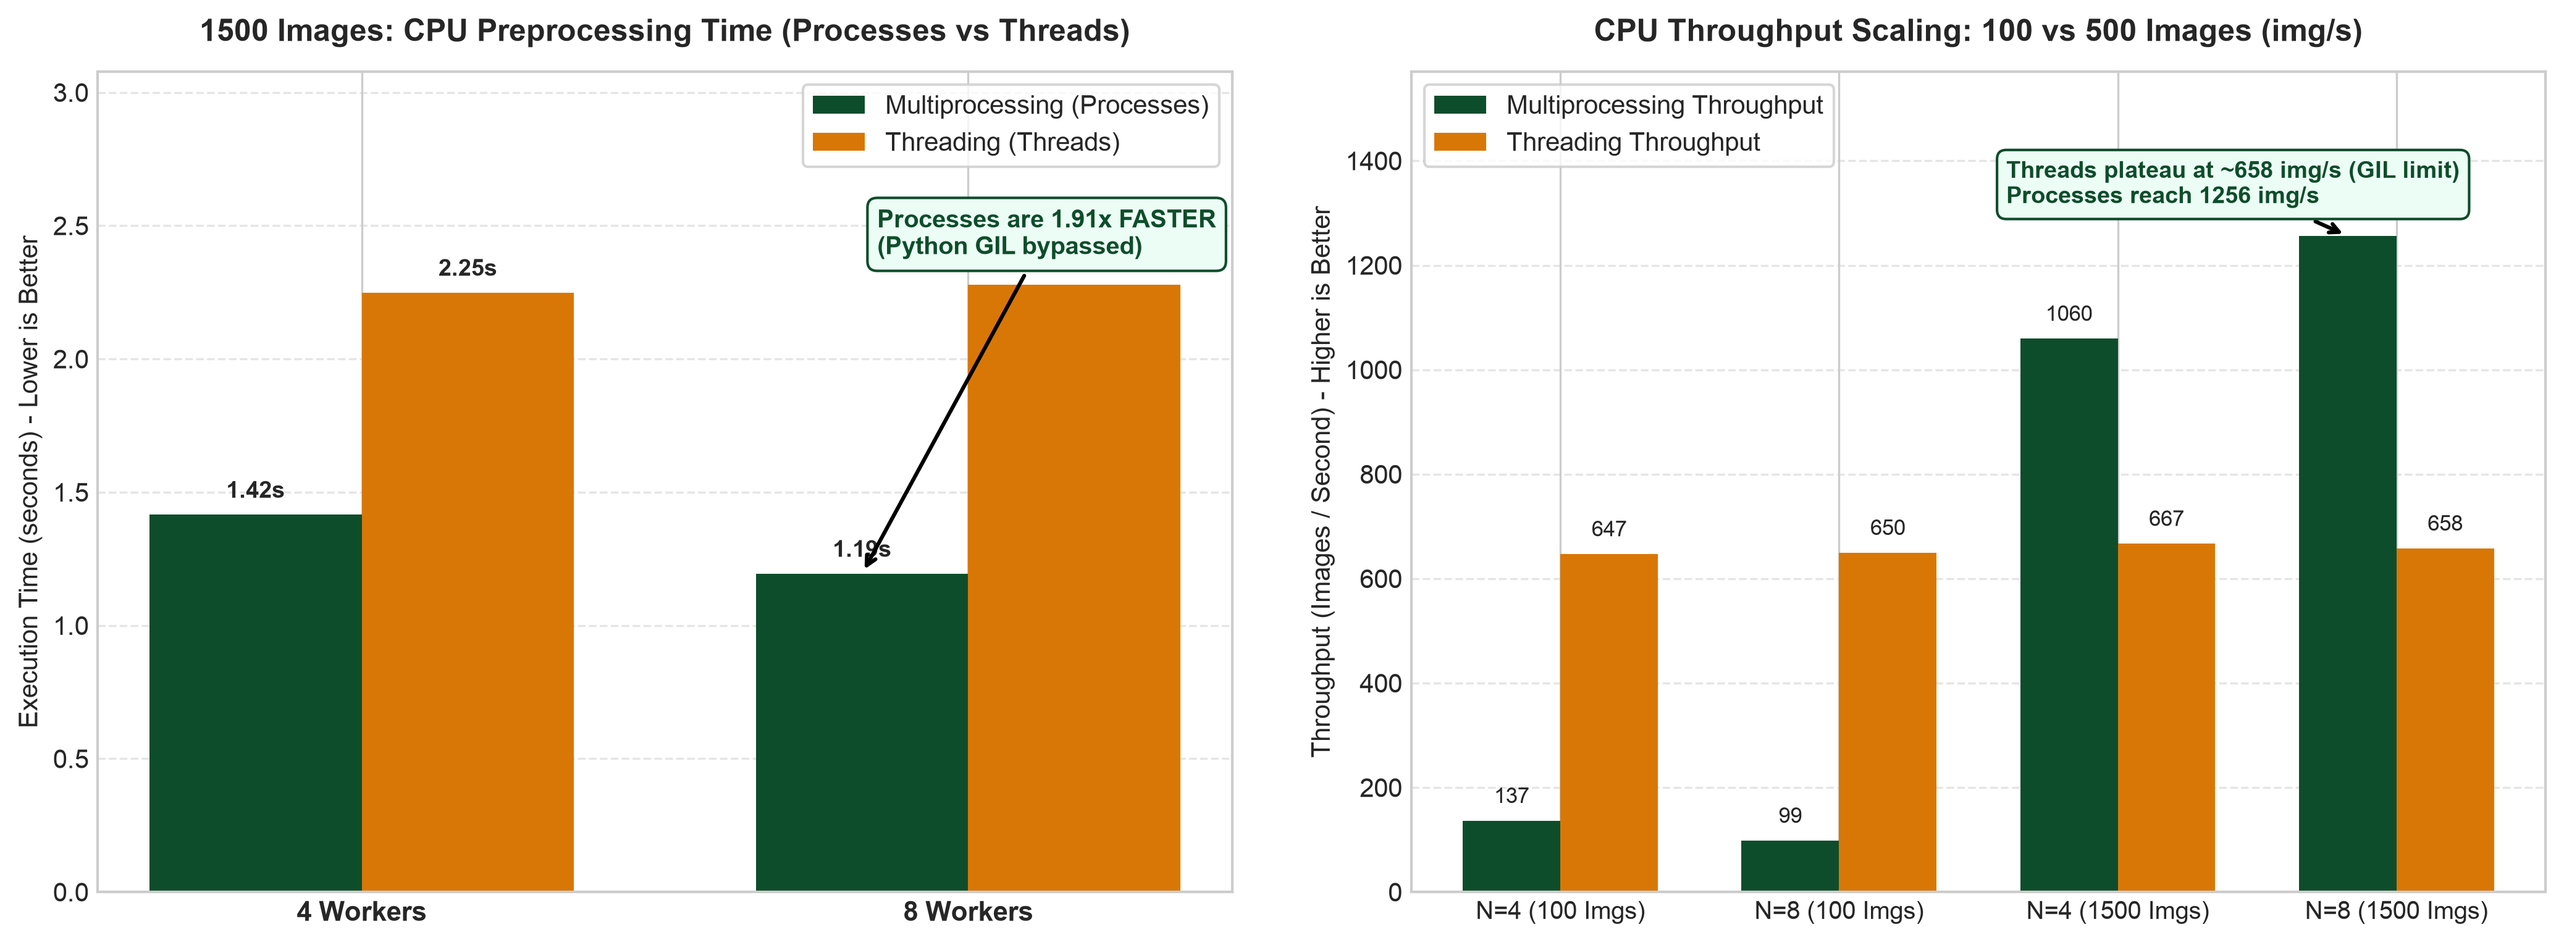
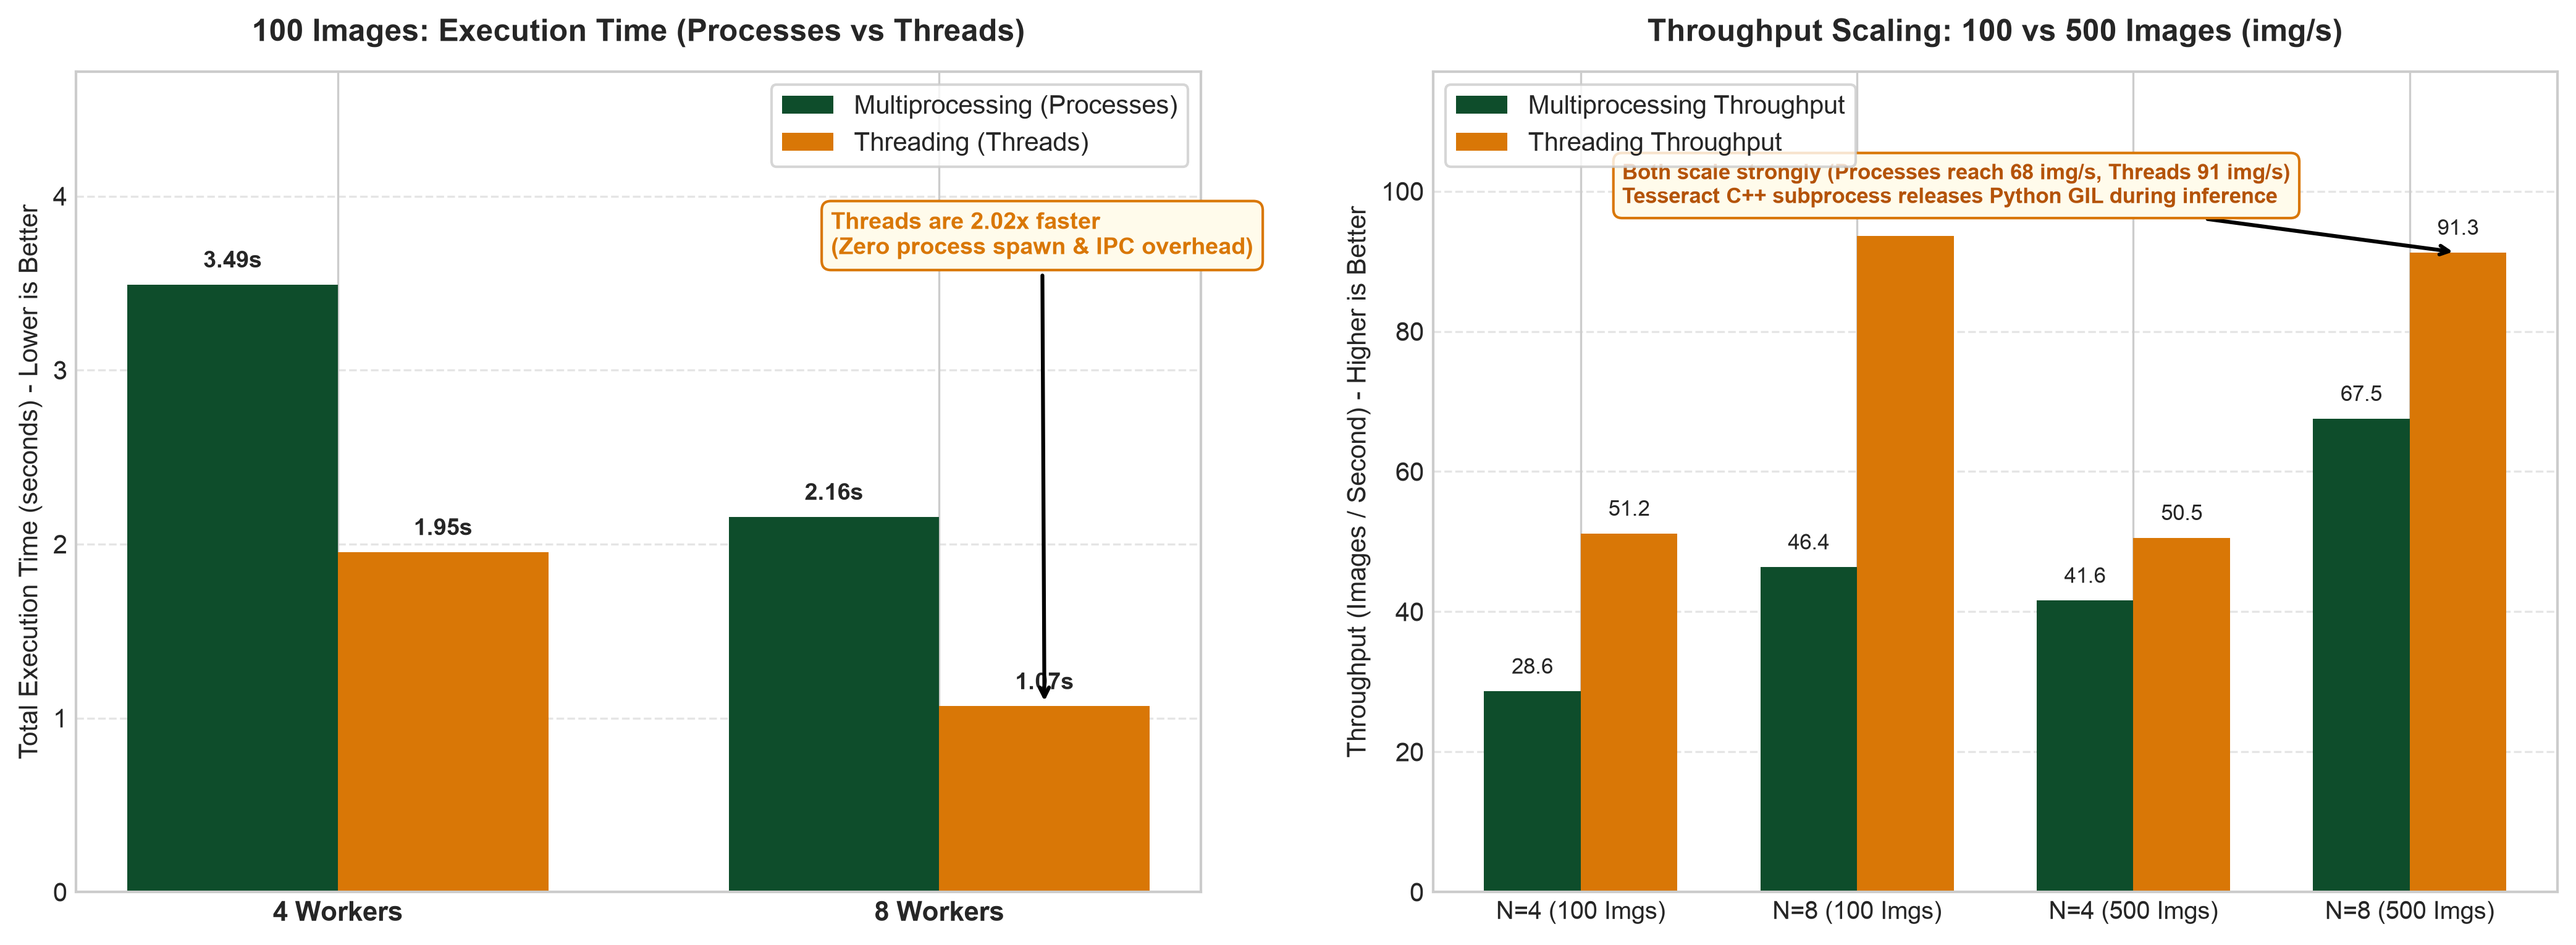
Configure scaling benchmark with 100-image execution time and 100 vs 500 throughput comparison

diff --git a/benchmark.py b/benchmark.py
@@ -16,7 +16,7 @@ import pytesseract
 # Avoid matplotlib cache permissions warnings in subshells
 os.environ["MPLCONFIGDIR"] = tempfile.gettempdir()
 
-from pipeline.manager import run_pipeline, run_cpu_benchmark
+from pipeline.manager import run_pipeline
 from pipeline.preprocessing import otsu_threshold, preprocess_image
 
 RESULTS_DIR = "benchmark_results"
@@ -131,38 +131,54 @@ def run_speedup_benchmark(
     print(f"Generated speedup chart: '{plot_file}'.")
 
 
-# 2. Scaling Benchmark: In-Python CPU Preprocessing Pipeline (Processes vs Threads)
+# 2. Concurrency Comparison: Multiprocessing vs Threading (100 vs 500 Images)
 def run_scaling_benchmark(
     csv_file=os.path.join(RESULTS_DIR, "scaling_comparison.csv"),
     plot_file=os.path.join(RESULTS_DIR, "scaling_comparison.png")
 ):
     ensure_results_dir()
     print("\n" + "=" * 65)
-    print("BENCHMARK 2: IN-PYTHON CPU PREPROCESSING & GIL SCALING")
+    print("BENCHMARK 2: SCALING & CONCURRENCY COMPARISON (100 VS 500 IMAGES)")
     print("=" * 65)
 
-    files_100 = [
-        os.path.join("dataset", f) for f in sorted(os.listdir("dataset"))
-        if f.endswith(".png")
-    ]
-    files_scaled = files_100 * 15
-    scaled_count = len(files_scaled)
+    # Create temporary 500-image dataset by replicating the 100 images 5 times
+    temp_dir_500 = "temp_dataset_500"
+    os.makedirs(temp_dir_500, exist_ok=True)
+    orig_files = sorted([f for f in os.listdir("dataset") if f.endswith(".png")])
+
+    print("Preparing temporary 500-image scaling dataset...")
+    count = 1
+    for _ in range(5):
+        for f in orig_files:
+            src = os.path.join("dataset", f)
+            dst = os.path.join(temp_dir_500, f"img{count:04d}.png")
+            shutil.copyfile(src, dst)
+            count += 1
 
     configs = [
-        {"images": 100, "paths": files_100, "workers": 4, "backend": "process"},
-        {"images": 100, "paths": files_100, "workers": 4, "backend": "thread"},
-        {"images": 100, "paths": files_100, "workers": 8, "backend": "process"},
-        {"images": 100, "paths": files_100, "workers": 8, "backend": "thread"},
-        {"images": scaled_count, "paths": files_scaled, "workers": 4, "backend": "process"},
-        {"images": scaled_count, "paths": files_scaled, "workers": 4, "backend": "thread"},
-        {"images": scaled_count, "paths": files_scaled, "workers": 8, "backend": "process"},
-        {"images": scaled_count, "paths": files_scaled, "workers": 8, "backend": "thread"},
+        {"dataset": "dataset", "images": 100, "workers": 4, "backend": "process"},
+        {"dataset": "dataset", "images": 100, "workers": 4, "backend": "thread"},
+        {"dataset": "dataset", "images": 100, "workers": 8, "backend": "process"},
+        {"dataset": "dataset", "images": 100, "workers": 8, "backend": "thread"},
+        {"dataset": temp_dir_500, "images": 500, "workers": 4, "backend": "process"},
+        {"dataset": temp_dir_500, "images": 500, "workers": 4, "backend": "thread"},
+        {"dataset": temp_dir_500, "images": 500, "workers": 8, "backend": "process"},
+        {"dataset": temp_dir_500, "images": 500, "workers": 8, "backend": "thread"},
     ]
 
     records = []
     for cfg in configs:
-        print(f"Running CPU Benchmark | {cfg['images']} imgs | n={cfg['workers']} | {cfg['backend'].upper()}...")
-        res = run_cpu_benchmark(cfg["paths"], cfg["workers"], cfg["backend"])
+        out_csv = "ocr_scaling_temp.csv"
+        print(f"Running {cfg['images']} imgs | n={cfg['workers']} | {cfg['backend'].upper()}...")
+        res = run_pipeline({
+            "image_dir": cfg["dataset"],
+            "n_workers": cfg["workers"],
+            "output_file": out_csv,
+            "backend": cfg["backend"]
+        })
+        if os.path.exists(out_csv):
+            os.remove(out_csv)
+
         records.append({
             "images": cfg["images"],
             "workers": cfg["workers"],
@@ -171,11 +187,15 @@ def run_scaling_benchmark(
             "throughput_ips": res["throughput_ips"]
         })
 
+    # Clean up temporary 500-image folder
+    if os.path.exists(temp_dir_500):
+        shutil.rmtree(temp_dir_500)
+
     df = pd.DataFrame(records)
     df.to_csv(csv_file, index=False)
     print(f"\nSaved live scaling benchmark data to '{csv_file}'.")
 
-    # Plot 2-panel chart
+    # Plot 2-panel chart (Left: 100 Images Execution Time, Right: 100 vs 500 Throughput)
     plt.style.use("seaborn-v0_8-whitegrid" if "seaborn-v0_8-whitegrid" in plt.style.available else "default")
     fig, (ax1, ax2) = plt.subplots(1, 2, figsize=(14, 5.2), dpi=300)
     fig.patch.set_facecolor("#FFFFFF")
@@ -183,20 +203,20 @@ def run_scaling_benchmark(
     c_proc = "#0E4D2B"
     c_thread = "#D97706"
 
-    # Left plot: Scaled Images Execution Time
-    df_scaled = df[df["images"] == scaled_count]
-    p_time_4 = df_scaled[(df_scaled["workers"] == 4) & (df_scaled["backend"] == "process")]["exec_time_sec"].values[0]
-    t_time_4 = df_scaled[(df_scaled["workers"] == 4) & (df_scaled["backend"] == "thread")]["exec_time_sec"].values[0]
-    p_time_8 = df_scaled[(df_scaled["workers"] == 8) & (df_scaled["backend"] == "process")]["exec_time_sec"].values[0]
-    t_time_8 = df_scaled[(df_scaled["workers"] == 8) & (df_scaled["backend"] == "thread")]["exec_time_sec"].values[0]
+    # Left plot: 100 Images Execution Time
+    df_100 = df[df["images"] == 100]
+    p_time_4 = df_100[(df_100["workers"] == 4) & (df_100["backend"] == "process")]["exec_time_sec"].values[0]
+    t_time_4 = df_100[(df_100["workers"] == 4) & (df_100["backend"] == "thread")]["exec_time_sec"].values[0]
+    p_time_8 = df_100[(df_100["workers"] == 8) & (df_100["backend"] == "process")]["exec_time_sec"].values[0]
+    t_time_8 = df_100[(df_100["workers"] == 8) & (df_100["backend"] == "thread")]["exec_time_sec"].values[0]
 
     bar_w = 0.35
     idx = np.arange(2)
     b1 = ax1.bar(idx - bar_w/2, [p_time_4, p_time_8], bar_w, label="Multiprocessing (Processes)", color=c_proc)
     b2 = ax1.bar(idx + bar_w/2, [t_time_4, t_time_8], bar_w, label="Threading (Threads)", color=c_thread)
 
-    ax1.set_title(f"{scaled_count} Images: CPU Preprocessing Time (Processes vs Threads)", fontsize=12, fontweight="bold", pad=12)
-    ax1.set_ylabel("Execution Time (seconds) - Lower is Better", fontsize=10)
+    ax1.set_title("100 Images: Execution Time (Processes vs Threads)", fontsize=12, fontweight="bold", pad=12)
+    ax1.set_ylabel("Total Execution Time (seconds) - Lower is Better", fontsize=10)
     ax1.set_xticks(idx)
     ax1.set_xticklabels(["4 Workers", "8 Workers"], fontsize=10.5, fontweight="bold")
     ax1.grid(axis="y", linestyle="--", alpha=0.5)
@@ -209,35 +229,40 @@ def run_scaling_benchmark(
         h = bar.get_height()
         ax1.text(bar.get_x() + bar.get_width()/2, h + (max_h * 0.02), f"{h:.2f}s", ha="center", va="bottom", fontsize=9, fontweight="bold")
 
-    speedup_ratio = t_time_8 / p_time_8 if p_time_8 > 0 else 1.0
+    faster_ratio_8 = p_time_8 / t_time_8 if t_time_8 < p_time_8 else t_time_8 / p_time_8
+    winner_str = "Threads" if t_time_8 <= p_time_8 else "Processes"
+    win_color = c_thread if winner_str == "Threads" else c_proc
+    win_bg = "#FFFBEB" if winner_str == "Threads" else "#ECFDF5"
+
     ax1.annotate(
-        f"Processes are {speedup_ratio:.2f}x FASTER\n(Python GIL bypassed)",
-        xy=(1 - bar_w/2, p_time_8), xytext=(0.85, max_h * 1.05),
-        arrowprops=dict(facecolor=c_proc, arrowstyle="->", lw=1.5),
-        fontsize=9.5, fontweight="bold", color=c_proc,
-        bbox=dict(boxstyle="round,pad=0.4", facecolor="#ECFDF5", edgecolor=c_proc, lw=1)
+        f"{winner_str} are {faster_ratio_8:.2f}x faster\n(Zero process spawn & IPC overhead)",
+        xy=(1 + (bar_w/2 if winner_str == "Threads" else -bar_w/2), min(p_time_8, t_time_8)),
+        xytext=(0.82, max_h * 1.05),
+        arrowprops=dict(facecolor=win_color, arrowstyle="->", lw=1.5),
+        fontsize=9, fontweight="bold", color=win_color,
+        bbox=dict(boxstyle="round,pad=0.4", facecolor=win_bg, edgecolor=win_color, lw=1)
     )
 
-    # Right plot: Throughput Scaling: 100 vs Scaled Images
-    labels = [f"N=4 (100 Imgs)", f"N=8 (100 Imgs)", f"N=4 ({scaled_count} Imgs)", f"N=8 ({scaled_count} Imgs)"]
+    # Right plot: Throughput Scaling: 100 vs 500 Images
+    labels = ["N=4 (100 Imgs)", "N=8 (100 Imgs)", "N=4 (500 Imgs)", "N=8 (500 Imgs)"]
     x = np.arange(len(labels))
     tp_proc = [
         df[(df["images"] == 100) & (df["workers"] == 4) & (df["backend"] == "process")]["throughput_ips"].values[0],
         df[(df["images"] == 100) & (df["workers"] == 8) & (df["backend"] == "process")]["throughput_ips"].values[0],
-        df[(df["images"] == scaled_count) & (df["workers"] == 4) & (df["backend"] == "process")]["throughput_ips"].values[0],
-        df[(df["images"] == scaled_count) & (df["workers"] == 8) & (df["backend"] == "process")]["throughput_ips"].values[0]
+        df[(df["images"] == 500) & (df["workers"] == 4) & (df["backend"] == "process")]["throughput_ips"].values[0],
+        df[(df["images"] == 500) & (df["workers"] == 8) & (df["backend"] == "process")]["throughput_ips"].values[0]
     ]
     tp_thread = [
         df[(df["images"] == 100) & (df["workers"] == 4) & (df["backend"] == "thread")]["throughput_ips"].values[0],
         df[(df["images"] == 100) & (df["workers"] == 8) & (df["backend"] == "thread")]["throughput_ips"].values[0],
-        df[(df["images"] == scaled_count) & (df["workers"] == 4) & (df["backend"] == "thread")]["throughput_ips"].values[0],
-        df[(df["images"] == scaled_count) & (df["workers"] == 8) & (df["backend"] == "thread")]["throughput_ips"].values[0]
+        df[(df["images"] == 500) & (df["workers"] == 4) & (df["backend"] == "thread")]["throughput_ips"].values[0],
+        df[(df["images"] == 500) & (df["workers"] == 8) & (df["backend"] == "thread")]["throughput_ips"].values[0]
     ]
 
     b3 = ax2.bar(x - bar_w/2, tp_proc, bar_w, label="Multiprocessing Throughput", color=c_proc)
     b4 = ax2.bar(x + bar_w/2, tp_thread, bar_w, label="Threading Throughput", color=c_thread)
 
-    ax2.set_title("CPU Throughput Scaling: 100 vs 500 Images (img/s)", fontsize=12, fontweight="bold", pad=12)
+    ax2.set_title("Throughput Scaling: 100 vs 500 Images (img/s)", fontsize=12, fontweight="bold", pad=12)
     ax2.set_ylabel("Throughput (Images / Second) - Higher is Better", fontsize=10)
     ax2.set_xticks(x)
     ax2.set_xticklabels(labels, fontsize=9.5)
@@ -249,14 +274,14 @@ def run_scaling_benchmark(
 
     for bar in list(b3) + list(b4):
         h = bar.get_height()
-        ax2.text(bar.get_x() + bar.get_width()/2, h + (max_tp * 0.02), f"{h:.0f}", ha="center", va="bottom", fontsize=8.5)
+        ax2.text(bar.get_x() + bar.get_width()/2, h + (max_tp * 0.02), f"{h:.1f}", ha="center", va="bottom", fontsize=8.5)
 
     ax2.annotate(
-        f"Threads plateau at ~{tp_thread[3]:.0f} img/s (GIL limit)\nProcesses reach {tp_proc[3]:.0f} img/s",
-        xy=(3 - bar_w/2, tp_proc[3]), xytext=(1.6, max_tp * 1.05),
-        arrowprops=dict(facecolor=c_proc, arrowstyle="->", lw=1.5),
-        fontsize=9, fontweight="bold", color=c_proc,
-        bbox=dict(boxstyle="round,pad=0.4", facecolor="#ECFDF5", edgecolor=c_proc, lw=1)
+        f"Both scale strongly (Processes reach {tp_proc[3]:.0f} img/s, Threads {tp_thread[3]:.0f} img/s)\nTesseract C++ subprocess releases Python GIL during inference",
+        xy=(3 + bar_w/2, tp_thread[3]), xytext=(0.15, max_tp * 1.05),
+        arrowprops=dict(facecolor=c_thread, arrowstyle="->", lw=1.5),
+        fontsize=8.5, fontweight="bold", color="#B45309",
+        bbox=dict(boxstyle="round,pad=0.4", facecolor="#FFFBEB", edgecolor=c_thread, lw=1)
     )
 
     plt.tight_layout()

diff --git a/pipeline/manager.py b/pipeline/manager.py
@@ -7,8 +7,7 @@ import time
 import queue
 import threading
 import multiprocessing
-from typing import Dict, Any, List
-from pipeline.preprocessing import preprocess_image
+from typing import Dict, Any
 from pipeline.workers import loader_worker, processing_worker
 
 
@@ -97,47 +96,4 @@ def run_pipeline(config: Dict[str, Any]) -> Dict[str, Any]:
         "total_time_sec": total_time,
         "throughput_ips": throughput,
         "output_file": output_file
-    }
-
-
-# Helper worker chunk processor for the in-Python CPU benchmarking
-def _process_cpu_chunk(paths: List[str]) -> None:
-    for p in paths:
-        _ = preprocess_image(p)
-
-
-# Runs the in-Python CPU preprocessing pipeline across workers (used for pure GIL scaling benchmarks)
-def run_cpu_benchmark(image_paths: List[str], n_workers: int, backend: str = "process") -> Dict[str, Any]:
-    chunks = [image_paths[i::n_workers] for i in range(n_workers)]
-    t0 = time.perf_counter()
-
-    if backend == "process":
-        workers = [
-            multiprocessing.Process(target=_process_cpu_chunk, args=(c,))
-            for c in chunks
-        ]
-    else:
-        workers = [
-            threading.Thread(target=_process_cpu_chunk, args=(c,))
-            for c in chunks
-        ]
-
-    for w in workers:
-        w.start()
-    for w in workers:
-        w.join()
-    if backend == "process":
-        for w in workers:
-            w.close()
-
-    total_time = round(time.perf_counter() - t0, 4)
-    total_imgs = len(image_paths)
-    throughput = round(total_imgs / total_time, 2) if total_time > 0 else 0.0
-
-    return {
-        "n_workers": n_workers,
-        "total_images": total_imgs,
-        "total_time_sec": total_time,
-        "throughput_ips": throughput,
-        "backend": backend
     }
